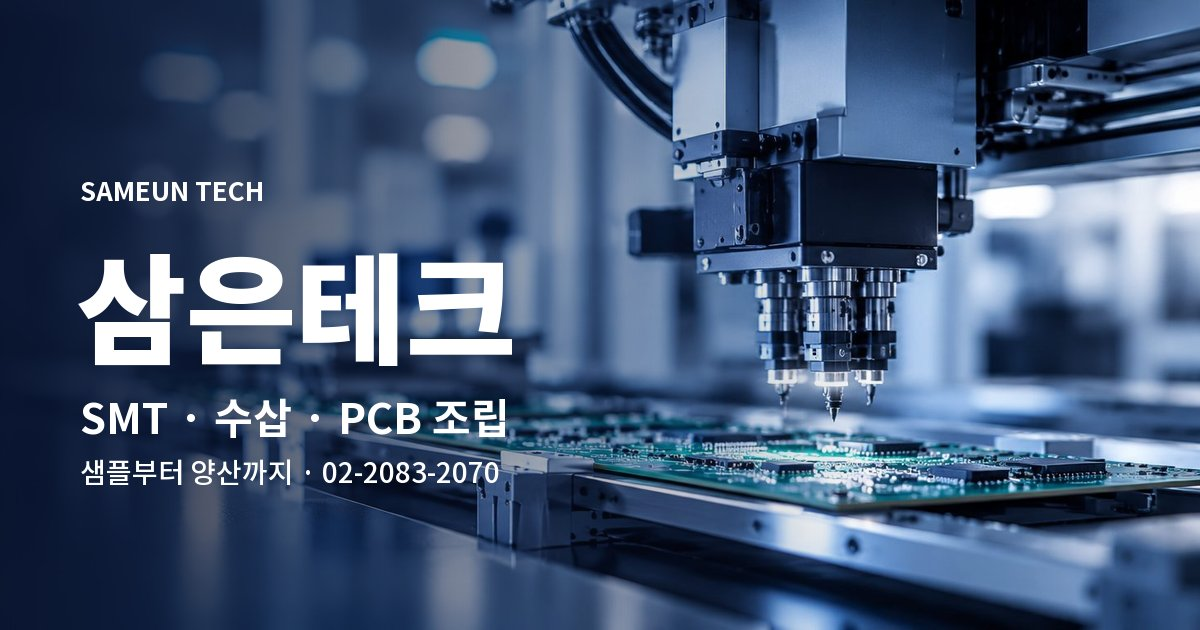
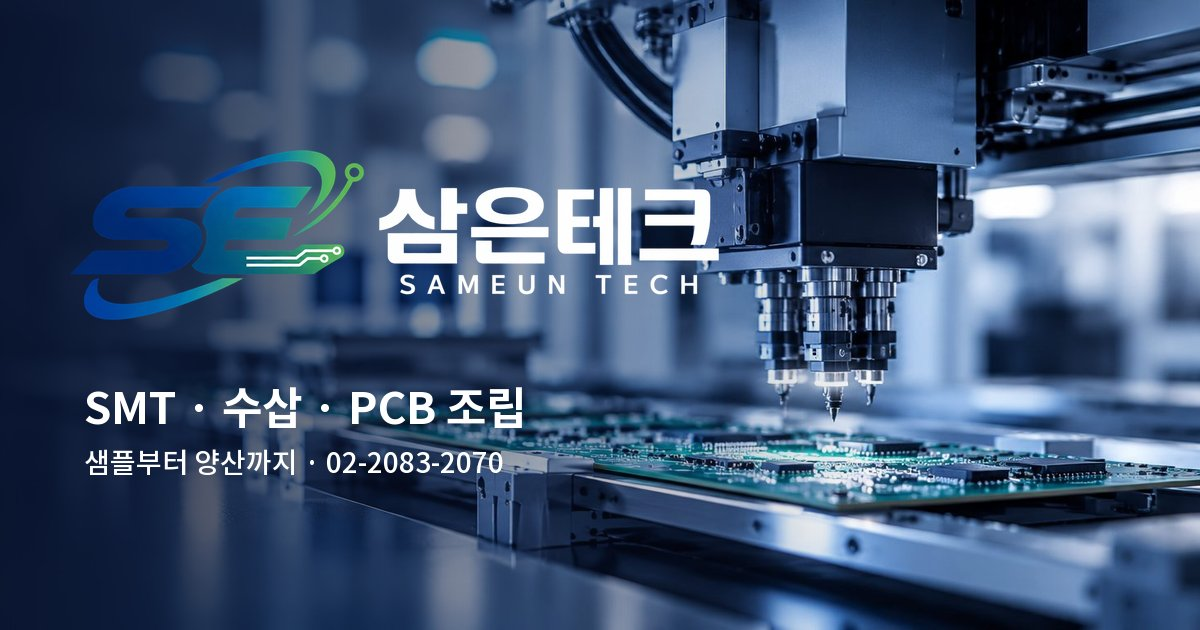
삼은테크: 로고 적용 — 머리말(마크 색+흰 글자)·모바일 메뉴·푸터, 탭 아이콘 SE 마크, 공유 미리보기에 로고
원본은 _build/logo-source.png, 변형은 _build/make_icons.py 로 만든다.

Changed region(s): [[0.0617, 0.2413, 0.6167, 0.7841]]

diff --git a/sameuntech/business.html b/sameuntech/business.html
@@ -24,12 +24,13 @@
 <body>
 <header class="header">
   <div class="wrap">
-    <a class="logo" href="index.html"><strong>삼은테크</strong><small>SAMEUN TECH</small></a>
+    <a class="logo" href="index.html"><img src="img/logo-dark.png" alt="삼은테크 SAMEUN TECH" width="535" height="140"></a>
     <ul class="gnb"><li><a href="greeting.html">회사소개</a><div class="sub"><a href="greeting.html">인사말</a><a href="history.html">연혁</a><a href="location.html">오시는길</a></div></li><li class="on"><a href="business.html">사업내용</a><div class="sub"><a href="business.html">사업분야</a><a href="process.html">제조공정</a><a href="equipment.html">제조설비</a><a href="products.html">취급품목</a></div></li><li><a href="quote.html">견적문의</a></li><li><a href="notice.html">고객센터</a></li></ul>
     <button type="button" class="menu-btn" id="menuOpen" aria-label="전체 메뉴" aria-expanded="false" aria-controls="sitemap"><svg viewBox="0 0 24 24" fill="none" stroke="currentColor" stroke-width="1.8" stroke-linecap="round" aria-hidden="true"><path d="M3 6h18M3 12h18M3 18h18"/></svg></button>
   </div>
 </header>
 <div class="sitemap" id="sitemap"><div class="sitemap-inner">
+  <a class="sm-logo" href="index.html"><img src="img/logo.png" alt="삼은테크" width="535" height="140"></a>
   <button type="button" class="sitemap-close" id="menuClose" aria-label="메뉴 닫기">&times;</button>
   <dl><dt><a href="index.html">처음으로</a></dt></dl><dl><dt><a href="greeting.html">회사소개</a></dt><dd><a href="greeting.html">인사말</a><a href="history.html">연혁</a><a href="location.html">오시는길</a></dd></dl><dl><dt><a href="business.html">사업내용</a></dt><dd><a href="business.html">사업분야</a><a href="process.html">제조공정</a><a href="equipment.html">제조설비</a><a href="products.html">취급품목</a></dd></dl><dl><dt><a href="quote.html">견적문의</a></dt></dl><dl><dt><a href="notice.html">고객센터</a></dt></dl>
 </div></div>
@@ -79,7 +80,7 @@
 </div></main>
 <footer class="footer">
   <div class="wrap">
-    <b>삼은테크</b><br>
+    <img class="f-logo" src="img/logo.png" alt="삼은테크" width="535" height="140">
     <span>주소 : 경기도 광명시 하안로 60, 광명SK테크노파크 C동 902호</span><span>대표 : 김광현</span><span>사업자등록번호 : 221-23-60415</span><br>
     <span>TEL : 02-2083-2070</span><span>E-Mail : <a href="mailto:sameuntech@naver.com">sameuntech@naver.com</a></span><br>
     COPYRIGHT &copy; 삼은테크. ALL RIGHTS RESERVED.

diff --git a/sameuntech/equipment.html b/sameuntech/equipment.html
@@ -24,12 +24,13 @@
 <body>
 <header class="header">
   <div class="wrap">
-    <a class="logo" href="index.html"><strong>삼은테크</strong><small>SAMEUN TECH</small></a>
+    <a class="logo" href="index.html"><img src="img/logo-dark.png" alt="삼은테크 SAMEUN TECH" width="535" height="140"></a>
     <ul class="gnb"><li><a href="greeting.html">회사소개</a><div class="sub"><a href="greeting.html">인사말</a><a href="history.html">연혁</a><a href="location.html">오시는길</a></div></li><li class="on"><a href="business.html">사업내용</a><div class="sub"><a href="business.html">사업분야</a><a href="process.html">제조공정</a><a href="equipment.html">제조설비</a><a href="products.html">취급품목</a></div></li><li><a href="quote.html">견적문의</a></li><li><a href="notice.html">고객센터</a></li></ul>
     <button type="button" class="menu-btn" id="menuOpen" aria-label="전체 메뉴" aria-expanded="false" aria-controls="sitemap"><svg viewBox="0 0 24 24" fill="none" stroke="currentColor" stroke-width="1.8" stroke-linecap="round" aria-hidden="true"><path d="M3 6h18M3 12h18M3 18h18"/></svg></button>
   </div>
 </header>
 <div class="sitemap" id="sitemap"><div class="sitemap-inner">
+  <a class="sm-logo" href="index.html"><img src="img/logo.png" alt="삼은테크" width="535" height="140"></a>
   <button type="button" class="sitemap-close" id="menuClose" aria-label="메뉴 닫기">&times;</button>
   <dl><dt><a href="index.html">처음으로</a></dt></dl><dl><dt><a href="greeting.html">회사소개</a></dt><dd><a href="greeting.html">인사말</a><a href="history.html">연혁</a><a href="location.html">오시는길</a></dd></dl><dl><dt><a href="business.html">사업내용</a></dt><dd><a href="business.html">사업분야</a><a href="process.html">제조공정</a><a href="equipment.html">제조설비</a><a href="products.html">취급품목</a></dd></dl><dl><dt><a href="quote.html">견적문의</a></dt></dl><dl><dt><a href="notice.html">고객센터</a></dt></dl>
 </div></div>
@@ -57,7 +58,7 @@
 </div></main>
 <footer class="footer">
   <div class="wrap">
-    <b>삼은테크</b><br>
+    <img class="f-logo" src="img/logo.png" alt="삼은테크" width="535" height="140">
     <span>주소 : 경기도 광명시 하안로 60, 광명SK테크노파크 C동 902호</span><span>대표 : 김광현</span><span>사업자등록번호 : 221-23-60415</span><br>
     <span>TEL : 02-2083-2070</span><span>E-Mail : <a href="mailto:sameuntech@naver.com">sameuntech@naver.com</a></span><br>
     COPYRIGHT &copy; 삼은테크. ALL RIGHTS RESERVED.

diff --git a/sameuntech/greeting.html b/sameuntech/greeting.html
@@ -24,12 +24,13 @@
 <body>
 <header class="header">
   <div class="wrap">
-    <a class="logo" href="index.html"><strong>삼은테크</strong><small>SAMEUN TECH</small></a>
+    <a class="logo" href="index.html"><img src="img/logo-dark.png" alt="삼은테크 SAMEUN TECH" width="535" height="140"></a>
     <ul class="gnb"><li class="on"><a href="greeting.html">회사소개</a><div class="sub"><a href="greeting.html">인사말</a><a href="history.html">연혁</a><a href="location.html">오시는길</a></div></li><li><a href="business.html">사업내용</a><div class="sub"><a href="business.html">사업분야</a><a href="process.html">제조공정</a><a href="equipment.html">제조설비</a><a href="products.html">취급품목</a></div></li><li><a href="quote.html">견적문의</a></li><li><a href="notice.html">고객센터</a></li></ul>
     <button type="button" class="menu-btn" id="menuOpen" aria-label="전체 메뉴" aria-expanded="false" aria-controls="sitemap"><svg viewBox="0 0 24 24" fill="none" stroke="currentColor" stroke-width="1.8" stroke-linecap="round" aria-hidden="true"><path d="M3 6h18M3 12h18M3 18h18"/></svg></button>
   </div>
 </header>
 <div class="sitemap" id="sitemap"><div class="sitemap-inner">
+  <a class="sm-logo" href="index.html"><img src="img/logo.png" alt="삼은테크" width="535" height="140"></a>
   <button type="button" class="sitemap-close" id="menuClose" aria-label="메뉴 닫기">&times;</button>
   <dl><dt><a href="index.html">처음으로</a></dt></dl><dl><dt><a href="greeting.html">회사소개</a></dt><dd><a href="greeting.html">인사말</a><a href="history.html">연혁</a><a href="location.html">오시는길</a></dd></dl><dl><dt><a href="business.html">사업내용</a></dt><dd><a href="business.html">사업분야</a><a href="process.html">제조공정</a><a href="equipment.html">제조설비</a><a href="products.html">취급품목</a></dd></dl><dl><dt><a href="quote.html">견적문의</a></dt></dl><dl><dt><a href="notice.html">고객센터</a></dt></dl>
 </div></div>
@@ -72,7 +73,7 @@
 </div></main>
 <footer class="footer">
   <div class="wrap">
-    <b>삼은테크</b><br>
+    <img class="f-logo" src="img/logo.png" alt="삼은테크" width="535" height="140">
     <span>주소 : 경기도 광명시 하안로 60, 광명SK테크노파크 C동 902호</span><span>대표 : 김광현</span><span>사업자등록번호 : 221-23-60415</span><br>
     <span>TEL : 02-2083-2070</span><span>E-Mail : <a href="mailto:sameuntech@naver.com">sameuntech@naver.com</a></span><br>
     COPYRIGHT &copy; 삼은테크. ALL RIGHTS RESERVED.

diff --git a/sameuntech/history.html b/sameuntech/history.html
@@ -24,12 +24,13 @@
 <body>
 <header class="header">
   <div class="wrap">
-    <a class="logo" href="index.html"><strong>삼은테크</strong><small>SAMEUN TECH</small></a>
+    <a class="logo" href="index.html"><img src="img/logo-dark.png" alt="삼은테크 SAMEUN TECH" width="535" height="140"></a>
     <ul class="gnb"><li class="on"><a href="greeting.html">회사소개</a><div class="sub"><a href="greeting.html">인사말</a><a href="history.html">연혁</a><a href="location.html">오시는길</a></div></li><li><a href="business.html">사업내용</a><div class="sub"><a href="business.html">사업분야</a><a href="process.html">제조공정</a><a href="equipment.html">제조설비</a><a href="products.html">취급품목</a></div></li><li><a href="quote.html">견적문의</a></li><li><a href="notice.html">고객센터</a></li></ul>
     <button type="button" class="menu-btn" id="menuOpen" aria-label="전체 메뉴" aria-expanded="false" aria-controls="sitemap"><svg viewBox="0 0 24 24" fill="none" stroke="currentColor" stroke-width="1.8" stroke-linecap="round" aria-hidden="true"><path d="M3 6h18M3 12h18M3 18h18"/></svg></button>
   </div>
 </header>
 <div class="sitemap" id="sitemap"><div class="sitemap-inner">
+  <a class="sm-logo" href="index.html"><img src="img/logo.png" alt="삼은테크" width="535" height="140"></a>
   <button type="button" class="sitemap-close" id="menuClose" aria-label="메뉴 닫기">&times;</button>
   <dl><dt><a href="index.html">처음으로</a></dt></dl><dl><dt><a href="greeting.html">회사소개</a></dt><dd><a href="greeting.html">인사말</a><a href="history.html">연혁</a><a href="location.html">오시는길</a></dd></dl><dl><dt><a href="business.html">사업내용</a></dt><dd><a href="business.html">사업분야</a><a href="process.html">제조공정</a><a href="equipment.html">제조설비</a><a href="products.html">취급품목</a></dd></dl><dl><dt><a href="quote.html">견적문의</a></dt></dl><dl><dt><a href="notice.html">고객센터</a></dt></dl>
 </div></div>
@@ -49,7 +50,7 @@
 </div></main>
 <footer class="footer">
   <div class="wrap">
-    <b>삼은테크</b><br>
+    <img class="f-logo" src="img/logo.png" alt="삼은테크" width="535" height="140">
     <span>주소 : 경기도 광명시 하안로 60, 광명SK테크노파크 C동 902호</span><span>대표 : 김광현</span><span>사업자등록번호 : 221-23-60415</span><br>
     <span>TEL : 02-2083-2070</span><span>E-Mail : <a href="mailto:sameuntech@naver.com">sameuntech@naver.com</a></span><br>
     COPYRIGHT &copy; 삼은테크. ALL RIGHTS RESERVED.

diff --git a/sameuntech/location.html b/sameuntech/location.html
@@ -24,12 +24,13 @@
 <body>
 <header class="header">
   <div class="wrap">
-    <a class="logo" href="index.html"><strong>삼은테크</strong><small>SAMEUN TECH</small></a>
+    <a class="logo" href="index.html"><img src="img/logo-dark.png" alt="삼은테크 SAMEUN TECH" width="535" height="140"></a>
     <ul class="gnb"><li class="on"><a href="greeting.html">회사소개</a><div class="sub"><a href="greeting.html">인사말</a><a href="history.html">연혁</a><a href="location.html">오시는길</a></div></li><li><a href="business.html">사업내용</a><div class="sub"><a href="business.html">사업분야</a><a href="process.html">제조공정</a><a href="equipment.html">제조설비</a><a href="products.html">취급품목</a></div></li><li><a href="quote.html">견적문의</a></li><li><a href="notice.html">고객센터</a></li></ul>
     <button type="button" class="menu-btn" id="menuOpen" aria-label="전체 메뉴" aria-expanded="false" aria-controls="sitemap"><svg viewBox="0 0 24 24" fill="none" stroke="currentColor" stroke-width="1.8" stroke-linecap="round" aria-hidden="true"><path d="M3 6h18M3 12h18M3 18h18"/></svg></button>
   </div>
 </header>
 <div class="sitemap" id="sitemap"><div class="sitemap-inner">
+  <a class="sm-logo" href="index.html"><img src="img/logo.png" alt="삼은테크" width="535" height="140"></a>
   <button type="button" class="sitemap-close" id="menuClose" aria-label="메뉴 닫기">&times;</button>
   <dl><dt><a href="index.html">처음으로</a></dt></dl><dl><dt><a href="greeting.html">회사소개</a></dt><dd><a href="greeting.html">인사말</a><a href="history.html">연혁</a><a href="location.html">오시는길</a></dd></dl><dl><dt><a href="business.html">사업내용</a></dt><dd><a href="business.html">사업분야</a><a href="process.html">제조공정</a><a href="equipment.html">제조설비</a><a href="products.html">취급품목</a></dd></dl><dl><dt><a href="quote.html">견적문의</a></dt></dl><dl><dt><a href="notice.html">고객센터</a></dt></dl>
 </div></div>
@@ -62,7 +63,7 @@
 </div></main>
 <footer class="footer">
   <div class="wrap">
-    <b>삼은테크</b><br>
+    <img class="f-logo" src="img/logo.png" alt="삼은테크" width="535" height="140">
     <span>주소 : 경기도 광명시 하안로 60, 광명SK테크노파크 C동 902호</span><span>대표 : 김광현</span><span>사업자등록번호 : 221-23-60415</span><br>
     <span>TEL : 02-2083-2070</span><span>E-Mail : <a href="mailto:sameuntech@naver.com">sameuntech@naver.com</a></span><br>
     COPYRIGHT &copy; 삼은테크. ALL RIGHTS RESERVED.

diff --git a/sameuntech/notice.html b/sameuntech/notice.html
@@ -24,12 +24,13 @@
 <body>
 <header class="header">
   <div class="wrap">
-    <a class="logo" href="index.html"><strong>삼은테크</strong><small>SAMEUN TECH</small></a>
+    <a class="logo" href="index.html"><img src="img/logo-dark.png" alt="삼은테크 SAMEUN TECH" width="535" height="140"></a>
     <ul class="gnb"><li><a href="greeting.html">회사소개</a><div class="sub"><a href="greeting.html">인사말</a><a href="history.html">연혁</a><a href="location.html">오시는길</a></div></li><li><a href="business.html">사업내용</a><div class="sub"><a href="business.html">사업분야</a><a href="process.html">제조공정</a><a href="equipment.html">제조설비</a><a href="products.html">취급품목</a></div></li><li><a href="quote.html">견적문의</a></li><li class="on"><a href="notice.html">고객센터</a></li></ul>
     <button type="button" class="menu-btn" id="menuOpen" aria-label="전체 메뉴" aria-expanded="false" aria-controls="sitemap"><svg viewBox="0 0 24 24" fill="none" stroke="currentColor" stroke-width="1.8" stroke-linecap="round" aria-hidden="true"><path d="M3 6h18M3 12h18M3 18h18"/></svg></button>
   </div>
 </header>
 <div class="sitemap" id="sitemap"><div class="sitemap-inner">
+  <a class="sm-logo" href="index.html"><img src="img/logo.png" alt="삼은테크" width="535" height="140"></a>
   <button type="button" class="sitemap-close" id="menuClose" aria-label="메뉴 닫기">&times;</button>
   <dl><dt><a href="index.html">처음으로</a></dt></dl><dl><dt><a href="greeting.html">회사소개</a></dt><dd><a href="greeting.html">인사말</a><a href="history.html">연혁</a><a href="location.html">오시는길</a></dd></dl><dl><dt><a href="business.html">사업내용</a></dt><dd><a href="business.html">사업분야</a><a href="process.html">제조공정</a><a href="equipment.html">제조설비</a><a href="products.html">취급품목</a></dd></dl><dl><dt><a href="quote.html">견적문의</a></dt></dl><dl><dt><a href="notice.html">고객센터</a></dt></dl>
 </div></div>
@@ -54,7 +55,7 @@
 </div></main>
 <footer class="footer">
   <div class="wrap">
-    <b>삼은테크</b><br>
+    <img class="f-logo" src="img/logo.png" alt="삼은테크" width="535" height="140">
     <span>주소 : 경기도 광명시 하안로 60, 광명SK테크노파크 C동 902호</span><span>대표 : 김광현</span><span>사업자등록번호 : 221-23-60415</span><br>
     <span>TEL : 02-2083-2070</span><span>E-Mail : <a href="mailto:sameuntech@naver.com">sameuntech@naver.com</a></span><br>
     COPYRIGHT &copy; 삼은테크. ALL RIGHTS RESERVED.

diff --git a/sameuntech/process.html b/sameuntech/process.html
@@ -24,12 +24,13 @@
 <body>
 <header class="header">
   <div class="wrap">
-    <a class="logo" href="index.html"><strong>삼은테크</strong><small>SAMEUN TECH</small></a>
+    <a class="logo" href="index.html"><img src="img/logo-dark.png" alt="삼은테크 SAMEUN TECH" width="535" height="140"></a>
     <ul class="gnb"><li><a href="greeting.html">회사소개</a><div class="sub"><a href="greeting.html">인사말</a><a href="history.html">연혁</a><a href="location.html">오시는길</a></div></li><li class="on"><a href="business.html">사업내용</a><div class="sub"><a href="business.html">사업분야</a><a href="process.html">제조공정</a><a href="equipment.html">제조설비</a><a href="products.html">취급품목</a></div></li><li><a href="quote.html">견적문의</a></li><li><a href="notice.html">고객센터</a></li></ul>
     <button type="button" class="menu-btn" id="menuOpen" aria-label="전체 메뉴" aria-expanded="false" aria-controls="sitemap"><svg viewBox="0 0 24 24" fill="none" stroke="currentColor" stroke-width="1.8" stroke-linecap="round" aria-hidden="true"><path d="M3 6h18M3 12h18M3 18h18"/></svg></button>
   </div>
 </header>
 <div class="sitemap" id="sitemap"><div class="sitemap-inner">
+  <a class="sm-logo" href="index.html"><img src="img/logo.png" alt="삼은테크" width="535" height="140"></a>
   <button type="button" class="sitemap-close" id="menuClose" aria-label="메뉴 닫기">&times;</button>
   <dl><dt><a href="index.html">처음으로</a></dt></dl><dl><dt><a href="greeting.html">회사소개</a></dt><dd><a href="greeting.html">인사말</a><a href="history.html">연혁</a><a href="location.html">오시는길</a></dd></dl><dl><dt><a href="business.html">사업내용</a></dt><dd><a href="business.html">사업분야</a><a href="process.html">제조공정</a><a href="equipment.html">제조설비</a><a href="products.html">취급품목</a></dd></dl><dl><dt><a href="quote.html">견적문의</a></dt></dl><dl><dt><a href="notice.html">고객센터</a></dt></dl>
 </div></div>
@@ -71,7 +72,7 @@
 </div></main>
 <footer class="footer">
   <div class="wrap">
-    <b>삼은테크</b><br>
+    <img class="f-logo" src="img/logo.png" alt="삼은테크" width="535" height="140">
     <span>주소 : 경기도 광명시 하안로 60, 광명SK테크노파크 C동 902호</span><span>대표 : 김광현</span><span>사업자등록번호 : 221-23-60415</span><br>
     <span>TEL : 02-2083-2070</span><span>E-Mail : <a href="mailto:sameuntech@naver.com">sameuntech@naver.com</a></span><br>
     COPYRIGHT &copy; 삼은테크. ALL RIGHTS RESERVED.

diff --git a/sameuntech/products.html b/sameuntech/products.html
@@ -24,12 +24,13 @@
 <body>
 <header class="header">
   <div class="wrap">
-    <a class="logo" href="index.html"><strong>삼은테크</strong><small>SAMEUN TECH</small></a>
+    <a class="logo" href="index.html"><img src="img/logo-dark.png" alt="삼은테크 SAMEUN TECH" width="535" height="140"></a>
     <ul class="gnb"><li><a href="greeting.html">회사소개</a><div class="sub"><a href="greeting.html">인사말</a><a href="history.html">연혁</a><a href="location.html">오시는길</a></div></li><li class="on"><a href="business.html">사업내용</a><div class="sub"><a href="business.html">사업분야</a><a href="process.html">제조공정</a><a href="equipment.html">제조설비</a><a href="products.html">취급품목</a></div></li><li><a href="quote.html">견적문의</a></li><li><a href="notice.html">고객센터</a></li></ul>
     <button type="button" class="menu-btn" id="menuOpen" aria-label="전체 메뉴" aria-expanded="false" aria-controls="sitemap"><svg viewBox="0 0 24 24" fill="none" stroke="currentColor" stroke-width="1.8" stroke-linecap="round" aria-hidden="true"><path d="M3 6h18M3 12h18M3 18h18"/></svg></button>
   </div>
 </header>
 <div class="sitemap" id="sitemap"><div class="sitemap-inner">
+  <a class="sm-logo" href="index.html"><img src="img/logo.png" alt="삼은테크" width="535" height="140"></a>
   <button type="button" class="sitemap-close" id="menuClose" aria-label="메뉴 닫기">&times;</button>
   <dl><dt><a href="index.html">처음으로</a></dt></dl><dl><dt><a href="greeting.html">회사소개</a></dt><dd><a href="greeting.html">인사말</a><a href="history.html">연혁</a><a href="location.html">오시는길</a></dd></dl><dl><dt><a href="business.html">사업내용</a></dt><dd><a href="business.html">사업분야</a><a href="process.html">제조공정</a><a href="equipment.html">제조설비</a><a href="products.html">취급품목</a></dd></dl><dl><dt><a href="quote.html">견적문의</a></dt></dl><dl><dt><a href="notice.html">고객센터</a></dt></dl>
 </div></div>
@@ -51,7 +52,7 @@
 </div></main>
 <footer class="footer">
   <div class="wrap">
-    <b>삼은테크</b><br>
+    <img class="f-logo" src="img/logo.png" alt="삼은테크" width="535" height="140">
     <span>주소 : 경기도 광명시 하안로 60, 광명SK테크노파크 C동 902호</span><span>대표 : 김광현</span><span>사업자등록번호 : 221-23-60415</span><br>
     <span>TEL : 02-2083-2070</span><span>E-Mail : <a href="mailto:sameuntech@naver.com">sameuntech@naver.com</a></span><br>
     COPYRIGHT &copy; 삼은테크. ALL RIGHTS RESERVED.

diff --git a/sameuntech/quote.html b/sameuntech/quote.html
@@ -24,12 +24,13 @@
 <body>
 <header class="header">
   <div class="wrap">
-    <a class="logo" href="index.html"><strong>삼은테크</strong><small>SAMEUN TECH</small></a>
+    <a class="logo" href="index.html"><img src="img/logo-dark.png" alt="삼은테크 SAMEUN TECH" width="535" height="140"></a>
     <ul class="gnb"><li><a href="greeting.html">회사소개</a><div class="sub"><a href="greeting.html">인사말</a><a href="history.html">연혁</a><a href="location.html">오시는길</a></div></li><li><a href="business.html">사업내용</a><div class="sub"><a href="business.html">사업분야</a><a href="process.html">제조공정</a><a href="equipment.html">제조설비</a><a href="products.html">취급품목</a></div></li><li class="on"><a href="quote.html">견적문의</a></li><li><a href="notice.html">고객센터</a></li></ul>
     <button type="button" class="menu-btn" id="menuOpen" aria-label="전체 메뉴" aria-expanded="false" aria-controls="sitemap"><svg viewBox="0 0 24 24" fill="none" stroke="currentColor" stroke-width="1.8" stroke-linecap="round" aria-hidden="true"><path d="M3 6h18M3 12h18M3 18h18"/></svg></button>
   </div>
 </header>
 <div class="sitemap" id="sitemap"><div class="sitemap-inner">
+  <a class="sm-logo" href="index.html"><img src="img/logo.png" alt="삼은테크" width="535" height="140"></a>
   <button type="button" class="sitemap-close" id="menuClose" aria-label="메뉴 닫기">&times;</button>
   <dl><dt><a href="index.html">처음으로</a></dt></dl><dl><dt><a href="greeting.html">회사소개</a></dt><dd><a href="greeting.html">인사말</a><a href="history.html">연혁</a><a href="location.html">오시는길</a></dd></dl><dl><dt><a href="business.html">사업내용</a></dt><dd><a href="business.html">사업분야</a><a href="process.html">제조공정</a><a href="equipment.html">제조설비</a><a href="products.html">취급품목</a></dd></dl><dl><dt><a href="quote.html">견적문의</a></dt></dl><dl><dt><a href="notice.html">고객센터</a></dt></dl>
 </div></div>
@@ -61,7 +62,7 @@
 </div></main>
 <footer class="footer">
   <div class="wrap">
-    <b>삼은테크</b><br>
+    <img class="f-logo" src="img/logo.png" alt="삼은테크" width="535" height="140">
     <span>주소 : 경기도 광명시 하안로 60, 광명SK테크노파크 C동 902호</span><span>대표 : 김광현</span><span>사업자등록번호 : 221-23-60415</span><br>
     <span>TEL : 02-2083-2070</span><span>E-Mail : <a href="mailto:sameuntech@naver.com">sameuntech@naver.com</a></span><br>
     COPYRIGHT &copy; 삼은테크. ALL RIGHTS RESERVED.

diff --git a/sameuntech/index.html b/sameuntech/index.html
@@ -24,12 +24,13 @@
 <body>
 <header class="header">
   <div class="wrap">
-    <a class="logo" href="index.html"><strong>삼은테크</strong><small>SAMEUN TECH</small></a>
+    <a class="logo" href="index.html"><img src="img/logo-dark.png" alt="삼은테크 SAMEUN TECH" width="535" height="140"></a>
     <ul class="gnb"><li><a href="greeting.html">회사소개</a><div class="sub"><a href="greeting.html">인사말</a><a href="history.html">연혁</a><a href="location.html">오시는길</a></div></li><li><a href="business.html">사업내용</a><div class="sub"><a href="business.html">사업분야</a><a href="process.html">제조공정</a><a href="equipment.html">제조설비</a><a href="products.html">취급품목</a></div></li><li><a href="quote.html">견적문의</a></li><li><a href="notice.html">고객센터</a></li></ul>
     <button type="button" class="menu-btn" id="menuOpen" aria-label="전체 메뉴" aria-expanded="false" aria-controls="sitemap"><svg viewBox="0 0 24 24" fill="none" stroke="currentColor" stroke-width="1.8" stroke-linecap="round" aria-hidden="true"><path d="M3 6h18M3 12h18M3 18h18"/></svg></button>
   </div>
 </header>
 <div class="sitemap" id="sitemap"><div class="sitemap-inner">
+  <a class="sm-logo" href="index.html"><img src="img/logo.png" alt="삼은테크" width="535" height="140"></a>
   <button type="button" class="sitemap-close" id="menuClose" aria-label="메뉴 닫기">&times;</button>
   <dl><dt><a href="index.html">처음으로</a></dt></dl><dl><dt><a href="greeting.html">회사소개</a></dt><dd><a href="greeting.html">인사말</a><a href="history.html">연혁</a><a href="location.html">오시는길</a></dd></dl><dl><dt><a href="business.html">사업내용</a></dt><dd><a href="business.html">사업분야</a><a href="process.html">제조공정</a><a href="equipment.html">제조설비</a><a href="products.html">취급품목</a></dd></dl><dl><dt><a href="quote.html">견적문의</a></dt></dl><dl><dt><a href="notice.html">고객센터</a></dt></dl>
 </div></div>
@@ -133,7 +134,7 @@
 </main>
 <footer class="footer">
   <div class="wrap">
-    <b>삼은테크</b><br>
+    <img class="f-logo" src="img/logo.png" alt="삼은테크" width="535" height="140">
     <span>주소 : 경기도 광명시 하안로 60, 광명SK테크노파크 C동 902호</span><span>대표 : 김광현</span><span>사업자등록번호 : 221-23-60415</span><br>
     <span>TEL : 02-2083-2070</span><span>E-Mail : <a href="mailto:sameuntech@naver.com">sameuntech@naver.com</a></span><br>
     COPYRIGHT &copy; 삼은테크. ALL RIGHTS RESERVED.

diff --git a/sameuntech/style.css b/sameuntech/style.css
@@ -36,6 +36,10 @@ html { scroll-padding-top: var(--header-h); }
 .logo { display: block; line-height: 1.1; flex: none; }
 .logo strong { display: block; font-size: 24px; font-weight: 800; letter-spacing: -.03em; }
 .logo small { display: block; font-family: var(--en); font-size: 10px; font-weight: 600; letter-spacing: .26em; opacity: .75; margin-top: 2px; }
+.logo img { display: block; height: 46px; width: auto; }
+.sm-logo { display: block; width: fit-content; margin: 4px 0 18px; }
+.sm-logo img { display: block; height: 34px; width: auto; }
+.f-logo { display: block; height: 38px; width: auto; margin-bottom: 14px; }
 .gnb { display: flex; height: 100%; gap: 0; margin-left: auto; }
 .gnb > li { position: relative; height: 100%; }
 .gnb > li > a { display: flex; align-items: center; height: 100%; padding: 0 52px; font-size: 16.5px; font-weight: 600; }
@@ -54,7 +58,7 @@ html { scroll-padding-top: var(--header-h); }
 .sitemap { position: fixed; inset: 0; z-index: 100; background: rgba(0,0,0,.5); display: none; }
 .sitemap.open { display: block; }
 .sitemap-inner { position: absolute; top: 0; right: 0; width: min(340px, 86vw); height: 100%; background: #fff; padding: 22px 26px 40px; overflow-y: auto; }
-.sitemap-close { display: block; margin: 0 -8px 10px auto; width: 42px; height: 42px; border: 0; background: none; cursor: pointer; font-size: 30px; line-height: 1; color: var(--ink); }
+.sitemap-close { position: absolute; top: 14px; right: 14px; display: block; margin: 0; width: 42px; height: 42px; border: 0; background: none; cursor: pointer; font-size: 30px; line-height: 1; color: var(--ink); }
 .sitemap dl { padding: 16px 0; border-top: 1px solid var(--line); }
 .sitemap dt a { font-size: 18px; font-weight: 700; color: var(--ink); }
 .sitemap dd { display: flex; flex-wrap: wrap; gap: 4px 16px; margin-top: 6px; }
@@ -285,6 +289,7 @@ html { scroll-padding-top: var(--header-h); }
   .gnb { display: none; }
   .menu-btn { display: block; }
   .logo strong { font-size: 21px; }
+  .logo img { height: 36px; }
   .hero { height: 540px; background:
     linear-gradient(180deg, rgba(8,17,42,.78), rgba(8,17,42,.55)),
     url("img/hero.jpg") 78% center / cover no-repeat, var(--dark); }

diff --git a/sameuntech/_build/make_icons.py b/sameuntech/_build/make_icons.py
@@ -1,37 +1,99 @@
-"""브라우저 탭 아이콘(파비콘) 만들기: 남색 둥근 사각형에 흰 「삼」.
+"""로고 원본(_build/logo-source.png, 투명 배경)에서 사이트용 로고·탭 아이콘·공유 이미지를 만든다.
 
     python sameuntech/_build/make_icons.py
 
-로고가 생기면 이 그림 대신 로고로 favicon.png / apple-touch-icon.png 를 바꾼다.
+만드는 것
+  img/logo.png       흰 바탕용 원래 색 로고 (푸터·모바일 메뉴)
+  img/logo-dark.png  어두운 바탕용: SE 마크는 색 그대로, 글자만 흰색 (머리말)
+  favicon.png        브라우저 탭 아이콘 (SE 마크)
+  apple-touch-icon.png  아이폰 홈 화면 아이콘 (흰 바탕 + SE 마크)
+  og.jpg             카카오톡·문자 공유 미리보기 (메인 사진 + 로고)
 """
 from pathlib import Path
+
+import numpy as np
 from PIL import Image, ImageDraw, ImageFont
 
-OUT = Path(__file__).resolve().parent.parent
-FONT = "C:/Windows/Fonts/NotoSansKR-Black.ttf"
+HERE = Path(__file__).resolve().parent
+OUT = HERE.parent
+FONT = "C:/Windows/Fonts/NotoSansKR-{}.ttf"
+
+src = Image.open(HERE / "logo-source.png").convert("RGBA")
+arr = np.asarray(src)
+vis = arr[..., 3] > 40
+ys, xs = np.where(vis)
+logo = src.crop((xs.min(), ys.min(), xs.max() + 1, ys.max() + 1))
+
+# 마크와 글자 사이의 빈 세로줄 찾기
+cols = (np.asarray(logo)[..., 3] > 40).sum(axis=0)
+split, run = None, 0
+for x, c in enumerate(cols):
+    run = run + 1 if c == 0 else 0
+    if run > 15:
+        split = x - run + 1
+        break
+if split is None:
+    raise SystemExit("마크와 글자 사이 빈 칸을 못 찾음")
+mark = logo.crop((0, 0, split, logo.height))
+mark = mark.crop(mark.getbbox())
 
 
-def icon(size, radius_ratio=0.22, text_ratio=0.66):
-    s = size * 4  # 크게 그린 뒤 줄여서 가장자리를 매끄럽게
-    img = Image.new("RGBA", (s, s), (0, 0, 0, 0))
-    # 위→아래 남색 그라데이션
-    grad = Image.new("RGBA", (s, s))
-    gd = ImageDraw.Draw(grad)
-    top, bot = (31, 63, 140), (11, 23, 54)
-    for y in range(s):
-        t = y / (s - 1)
-        gd.line([(0, y), (s, y)], fill=tuple(round(a + (b - a) * t) for a, b in zip(top, bot)) + (255,))
-    mask = Image.new("L", (s, s), 0)
-    ImageDraw.Draw(mask).rounded_rectangle([0, 0, s - 1, s - 1], radius=int(s * radius_ratio), fill=255)
-    img.paste(grad, (0, 0), mask)
-    d = ImageDraw.Draw(img)
-    font = ImageFont.truetype(FONT, int(s * text_ratio))
-    box = d.textbbox((0, 0), "삼", font=font)
-    w, h = box[2] - box[0], box[3] - box[1]
-    d.text(((s - w) / 2 - box[0], (s - h) / 2 - box[1]), "삼", font=font, fill="white")
-    return img.resize((size, size), Image.LANCZOS)
+def fit_h(img, h):
+    return img.resize((round(img.width * h / img.height), h), Image.LANCZOS)
 
 
-icon(64).save(OUT / "favicon.png", optimize=True)
-icon(180, radius_ratio=0.0).convert("RGB").save(OUT / "apple-touch-icon.png", optimize=True)  # iOS 가 직접 둥글게 깎는다
-print("ok", (OUT / "favicon.png").stat().st_size, (OUT / "apple-touch-icon.png").stat().st_size)
+# 로고 2종 (표시 높이 46px 기준 3배)
+H = 140
+fit_h(logo, H).save(OUT / "img" / "logo.png", optimize=True)
+dark = np.asarray(logo).copy()
+dark[:, split:, :3] = 255
+fit_h(Image.fromarray(dark), H).save(OUT / "img" / "logo-dark.png", optimize=True)
+
+
+def square(img, size, pad, bg=None):
+    s = size * 4
+    canvas = Image.new("RGBA", (s, s), bg or (0, 0, 0, 0))
+    inner = s - 2 * int(s * pad)
+    m = img.copy()
+    m.thumbnail((inner, inner), Image.LANCZOS)
+    canvas.paste(m, ((s - m.width) // 2, (s - m.height) // 2), m)
+    return canvas.resize((size, size), Image.LANCZOS)
+
+
+def rounded_white(size, radius=0.22):
+    s = size * 4
+    m = Image.new("L", (s, s), 0)
+    ImageDraw.Draw(m).rounded_rectangle([0, 0, s - 1, s - 1], radius=int(s * radius), fill=255)
+    tile = Image.new("RGBA", (s, s), (255, 255, 255, 0))
+    tile.paste(Image.new("RGBA", (s, s), (255, 255, 255, 255)), (0, 0), m)
+    return tile
+
+
+fav = rounded_white(64)
+fm = mark.copy()
+fm.thumbnail((int(64 * 4 * 0.94), int(64 * 4 * 0.94)), Image.LANCZOS)
+fav.paste(fm, ((fav.width - fm.width) // 2, (fav.height - fm.height) // 2), fm)
+fav.resize((64, 64), Image.LANCZOS).save(OUT / "favicon.png", optimize=True)
+square(mark, 180, 0.12, bg=(255, 255, 255, 255)).convert("RGB").save(OUT / "apple-touch-icon.png", optimize=True)
+
+# 공유 미리보기 1200x630: 메인 사진 오른쪽 + 왼쪽 남색 그라데이션 + 로고
+W, Hh = 1200, 630
+bg = Image.open(OUT / "img" / "hero.jpg").convert("RGB")
+r = Hh / bg.height
+bg = bg.resize((round(bg.width * r), Hh), Image.LANCZOS)
+bg = bg.crop((bg.width - W, 0, bg.width, Hh)).convert("RGBA")
+ov = Image.new("RGBA", (W, Hh))
+d = ImageDraw.Draw(ov)
+for x in range(W):
+    t = x / W
+    d.line([(x, 0), (x, Hh)], fill=(8, 17, 42, max(0, int(235 * (1 - t / 0.75)))))
+og = Image.alpha_composite(bg, ov)
+lg = fit_h(Image.fromarray(dark), 170)
+og.paste(lg, (70, 150), lg)
+d = ImageDraw.Draw(og)
+d.text((84, 372), "SMT · 수삽 · PCB 조립", font=ImageFont.truetype(FONT.format("Bold"), 44), fill="white")
+d.text((84, 440), "샘플부터 양산까지 · 02-2083-2070", font=ImageFont.truetype(FONT.format("Medium"), 28), fill=(255, 255, 255, 215))
+og.convert("RGB").save(OUT / "og.jpg", "JPEG", quality=85, optimize=True, progressive=True)
+
+for p in ["img/logo.png", "img/logo-dark.png", "favicon.png", "apple-touch-icon.png", "og.jpg"]:
+    print(p, (OUT / p).stat().st_size // 1024, "KB")
